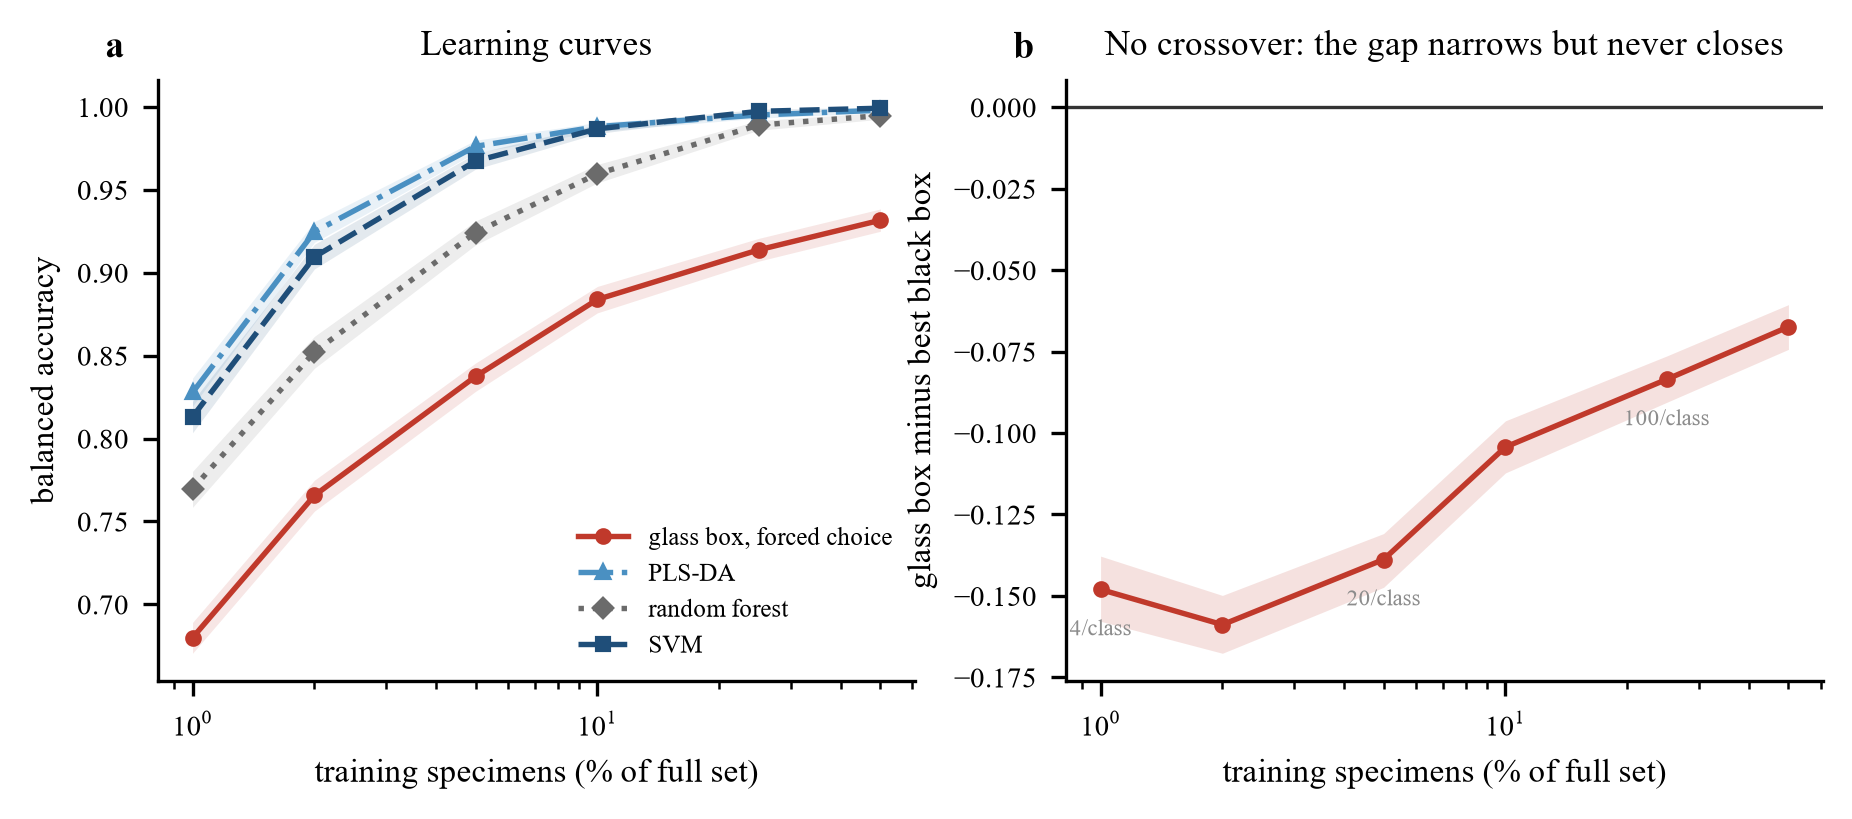
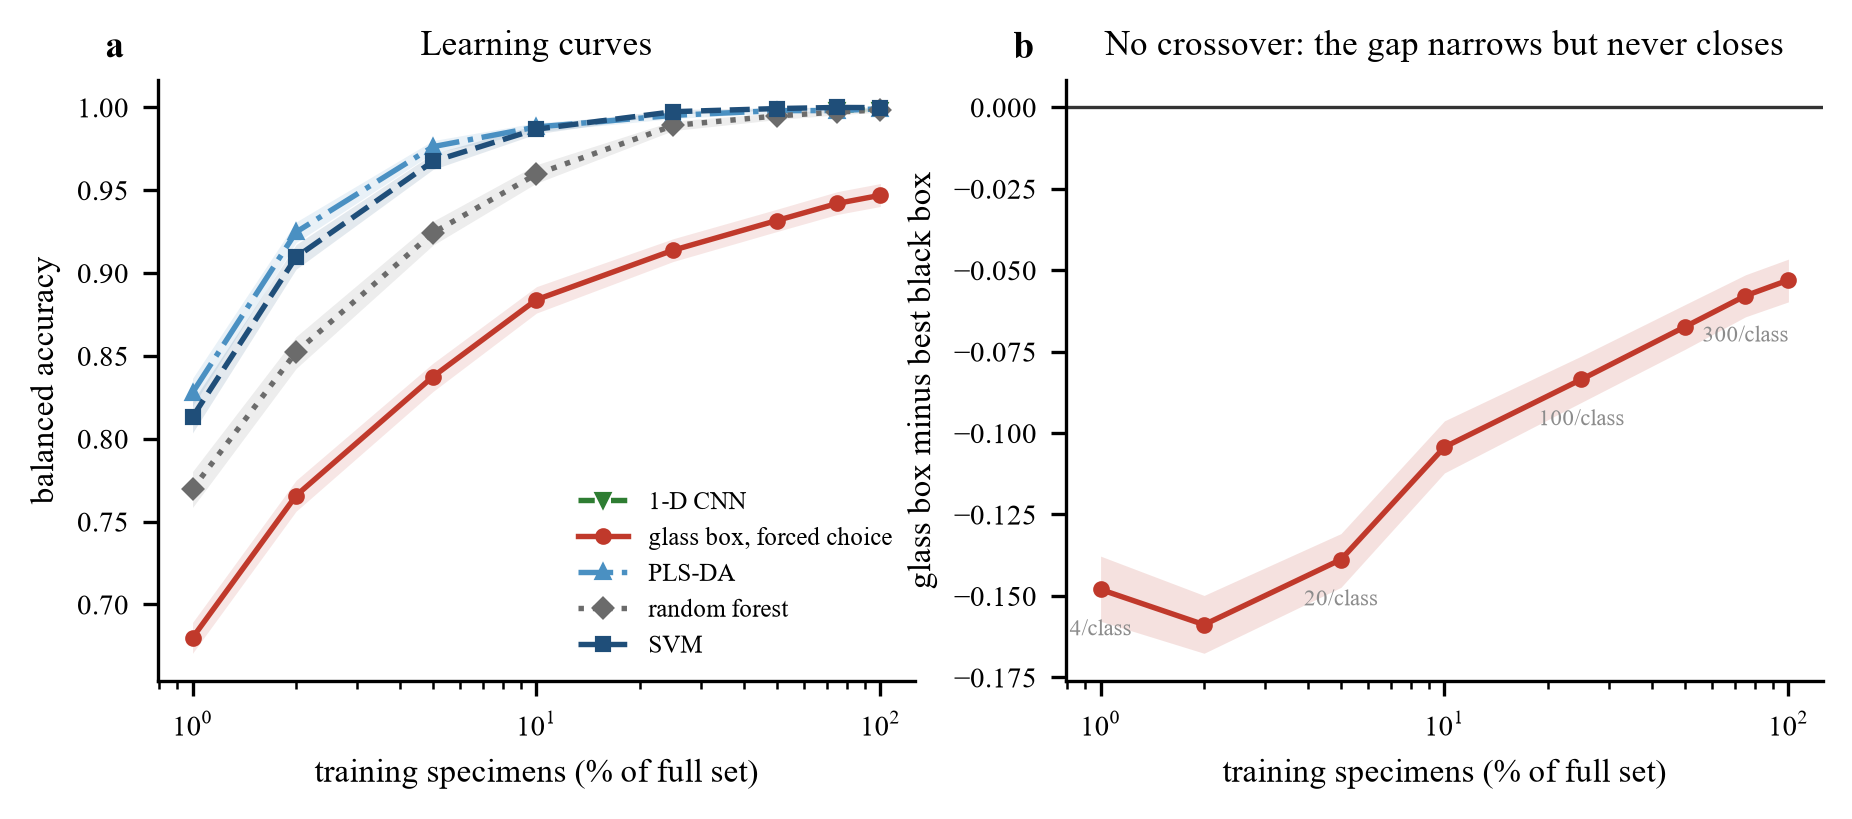
Complete the learning curve at 75 and 100 percent
The protocol specifies eight training fractions and only six had been run.
The last two cost 128 minutes for three seeds by five folds and leave the
conclusion unchanged: the glass box is behind the strongest baseline at every
size, by 0.058 at 75 percent and 0.053 at 100 percent, and no crossover occurs
anywhere in the specified range. The corresponding protocol deviation is now
recorded as closed.

diff --git a/PROTOCOL_v1.1.md b/PROTOCOL_v1.1.md
@@ -183,10 +183,12 @@ execution departed from it, with the reason.
    across the five folds of one repetition, and the comparison with the
    strongest baseline is a paired t-test across those folds instead of the
    corrected resampled test, which requires repeated runs.
-2. **Learning-curve sizes.** Section 6 specifies training fractions of 1, 2,
-   5, 10, 25, 50, 75 and 100 percent. The run completed covers 1 to 50
-   percent. The conclusion that no crossover occurs is therefore established
-   only up to half of the training data.
+2. **Learning-curve sizes.** Closed on 11 October 2026. Section 6 specifies
+   training fractions of 1, 2, 5, 10, 25, 50, 75 and 100 percent. All eight
+   were run, the last two at a cost of 128 minutes for three seeds by five
+   folds. The conclusion is unchanged and now covers the whole specified
+   range: the interval of the difference excludes zero in favour of the
+   baseline at every size, so no crossover occurs.
 3. **Attribute-selection criterion.** The protocol does not state which of two
    defensible criteria selects the condition attributes. The validated
    classifier uses inner cross-validated balanced accuracy; Table III of the
